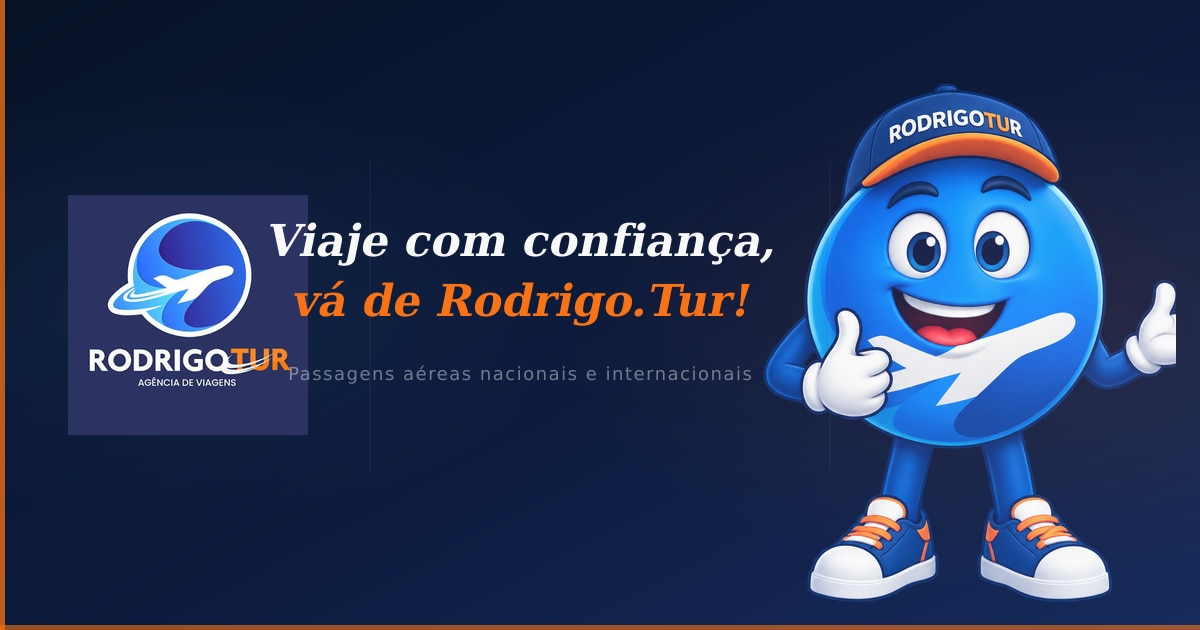
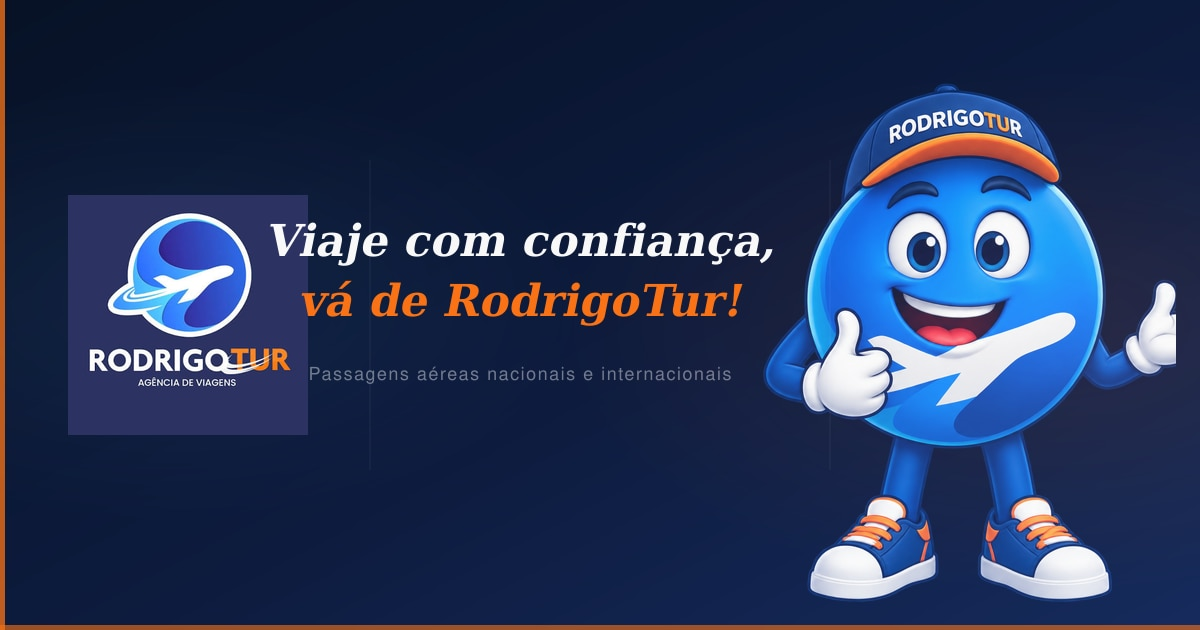
Update files from Figma Make

Changed region(s): [[0.2467, 0.4222, 0.6475, 0.5127], [0.2467, 0.573, 0.6167, 0.6032]]

diff --git a/src/App.tsx b/src/App.tsx
@@ -30,21 +30,21 @@ const WHATSAPP_NUMBER = "5583993686142";
 const whatsappLink = (message: string) =>
   `https://wa.me/${WHATSAPP_NUMBER}?text=${encodeURIComponent(message)}`;
 const WHATSAPP_LINKS = {
-  general:        whatsappLink("Olá! Gostaria de falar com a Rodrigo.Tur sobre uma viagem."),
+  general:        whatsappLink("Olá! Gostaria de falar com a RodrigoTur sobre uma viagem."),
   quote:          whatsappLink("Olá! Gostaria de iniciar uma cotação de passagem aérea. Meu destino e período são:"),
-  about:          whatsappLink("Olá! Conheci a Rodrigo.Tur pelo site e gostaria de ajuda para planejar minha viagem."),
-  story:          whatsappLink("Olá! Gostaria de planejar uma viagem com a Rodrigo.Tur. Meu destino e período são:"),
+  about:          whatsappLink("Olá! Conheci a RodrigoTur pelo site e gostaria de ajuda para planejar minha viagem."),
+  story:          whatsappLink("Olá! Gostaria de planejar uma viagem com a RodrigoTur. Meu destino e período são:"),
   process:        whatsappLink("Olá! Gostaria de começar meu atendimento para planejar uma viagem."),
-  differentials:  whatsappLink("Olá! Gostaria de conversar com a Rodrigo.Tur sobre minha próxima viagem."),
+  differentials:  whatsappLink("Olá! Gostaria de conversar com a RodrigoTur sobre minha próxima viagem."),
   tips:           whatsappLink("Olá! Vi as dicas no site e gostaria de tirar uma dúvida sobre minha viagem."),
-  contact:        whatsappLink("Olá! Vim pelo site da Rodrigo.Tur e gostaria de atendimento para planejar uma viagem."),
+  contact:        whatsappLink("Olá! Vim pelo site da RodrigoTur e gostaria de atendimento para planejar uma viagem."),
   national:       whatsappLink("Olá! Gostaria de consultar voos nacionais. Meu destino e período são:"),
   international:  whatsappLink("Olá! Gostaria de consultar voos internacionais. Meu destino e período são:"),
   personalized:   whatsappLink("Olá! Gostaria de um atendimento personalizado para encontrar uma passagem. Meu destino e período são:"),
 };
 
 const CONTENT = {
-  tagline:   "Viaje com confiança, vá de Rodrigo.Tur!",
+  tagline:   "Viaje com confiança, vá de RodrigoTur!",
   subtitulo: "Passagens aéreas nacionais e internacionais com atendimento humano, personalizado e suporte em cada etapa da sua viagem.",
   slogan:    "Eu te ajudo a viajar mais pagando menos.",
 
@@ -84,7 +84,7 @@ const CONTENT = {
   atendimentoOnline:     "Todos os dias",
   atendimentoPresencial: "Sábados — Queimadas/PB",
 
-  sobreTexto: "A Rodrigo.Tur nasceu para tornar a experiência de viajar mais simples, segura e acessível. Mais do que emitir passagens, acompanhamos cada cliente com atendimento humano e personalizado, ajudando desde a escolha do voo até os detalhes da viagem. Nosso compromisso é fazer com que você viaje com confiança.",
+  sobreTexto: "A RodrigoTur nasceu para tornar a experiência de viajar mais simples, segura e acessível. Mais do que emitir passagens, acompanhamos cada cliente com atendimento humano e personalizado, ajudando desde a escolha do voo até os detalhes da viagem. Nosso compromisso é fazer com que você viaje com confiança.",
   missao:  "Tornar as viagens mais simples, seguras e acessíveis com atendimento humano e personalizado.",
   visao:   "Ser a agência de referência em Queimadas/PB, reconhecida pela confiança e qualidade.",
   valores: "Cuidado, transparência, agilidade e compromisso com cada viagem.",
@@ -92,16 +92,16 @@ const CONTENT = {
   historiaSubtitulo: "De um sonho a uma agência de confiança",
   historiaTexto: "O que começou como uma vontade de ajudar pessoas a encontrar melhores caminhos para viajar tornou-se uma agência especializada em passagens aéreas, com suporte completo antes, durante e depois da viagem.",
   historiaTimeline: [
-    { ano: "Início",       titulo: "A ideia nasce",           desc: "O desejo de ajudar pessoas a viajar melhor deu origem à Rodrigo.Tur." },
+    { ano: "Início",       titulo: "A ideia nasce",           desc: "O desejo de ajudar pessoas a viajar melhor deu origem à RodrigoTur." },
     { ano: "Crescimento",  titulo: "Primeiros clientes",      desc: "Atendimento personalizado e indicações construíram a base da agência." },
     { ano: "Consolidação", titulo: "Especialização",          desc: "Foco em passagens aéreas e suporte completo em cada etapa." },
     { ano: "Hoje",         titulo: "Novos horizontes",        desc: "Conectando pessoas a novos destinos com confiança e cuidado." },
   ],
 
-  diferenciaisQuote: "Você não precisa planejar tudo sozinho. A Rodrigo.Tur acompanha cada etapa para que sua viagem seja mais tranquila.",
+  diferenciaisQuote: "Você não precisa planejar tudo sozinho. A RodrigoTur acompanha cada etapa para que sua viagem seja mais tranquila.",
 
-  copyright:   `© ${new Date().getFullYear()} Rodrigo.Tur — Agência de Viagens. Todos os direitos reservados.`,
-  avisoEdicao: "Informações comerciais podem ser atualizadas pela equipe da Rodrigo.Tur",
+  copyright:   `© ${new Date().getFullYear()} RodrigoTur — Agência de Viagens. Todos os direitos reservados.`,
+  avisoEdicao: "Informações comerciais podem ser atualizadas pela equipe da RodrigoTur",
 };
 
 /* ─── Nav ────────────────────────────────────────────────── */
@@ -122,7 +122,7 @@ function Mascot({ size = 64, flip, lazy }: { size?: number; flip?: boolean; lazy
   return (
     <img
       src={size > 100 ? mascotLgImg : mascotSmImg}
-      alt="Mascote Rodrigo.Tur"
+      alt="Mascote RodrigoTur"
       loading={lazy ? "lazy" : undefined}
       className="float-anim"
       style={{ width: size, height: size * 1.1, objectFit: "contain", flexShrink: 0, transform: flip ? "scaleX(-1)" : undefined }}
@@ -605,7 +605,7 @@ function Hero() {
 
             <h1 style={{ fontFamily: "Fraunces, Georgia, serif", color: "white", fontSize: "clamp(1.65rem, 7vw, 2.4rem)", lineHeight: 1.18, fontWeight: 600, marginBottom: 14 }}>
               Viaje com confiança,{" "}
-              <em style={{ color: ORANGE, fontStyle: "italic" }}>vá de Rodrigo.Tur!</em>
+              <em style={{ color: ORANGE, fontStyle: "italic" }}>vá de RodrigoTur!</em>
             </h1>
 
             <p style={{ color: "rgba(255,255,255,0.65)", fontSize: "0.92rem", lineHeight: 1.7, marginBottom: 24 }}>
@@ -651,7 +651,7 @@ function Hero() {
 
               <h1 style={{ fontFamily: "Fraunces, Georgia, serif", color: "white", fontSize: "clamp(2.2rem, 4.5vw, 3.6rem)", lineHeight: 1.12, fontWeight: 600, marginBottom: 20 }}>
                 Viaje com confiança,{" "}
-                <em style={{ color: ORANGE, fontStyle: "italic" }}>vá de Rodrigo.Tur!</em>
+                <em style={{ color: ORANGE, fontStyle: "italic" }}>vá de RodrigoTur!</em>
               </h1>
 
               <p style={{ color: "rgba(255,255,255,0.68)", fontSize: "1.08rem", lineHeight: 1.75, marginBottom: 36, maxWidth: 520 }}>
@@ -701,7 +701,7 @@ function About() {
             <div style={{ borderRadius: 20, overflow: "hidden", background: NAVY, aspectRatio: "1/1" }}>
               <img
                 src={aboutImg}
-                alt="Rodrigo, proprietário da Rodrigo.Tur, ao lado da identidade visual da agência"
+                alt="Rodrigo, proprietário da RodrigoTur, ao lado da identidade visual da agência"
                 loading="lazy"
                 style={{ width: "100%", height: "100%", objectFit: "cover", objectPosition: "center top" }}
               />
@@ -714,7 +714,7 @@ function About() {
 
           {/* Text */}
           <div>
-            <SectionLabel>Sobre a Rodrigo.Tur</SectionLabel>
+            <SectionLabel>Sobre a RodrigoTur</SectionLabel>
             <SectionHeading>
               Sua viagem começa{" "}
               <em style={{ color: ORANGE, fontStyle: "italic" }}>com tranquilidade</em>
@@ -732,7 +732,7 @@ function About() {
               ))}
             </ul>
 
-            <Btn href={CONTENT.whatsapp.links.about} variant="primary" small><WhatsAppIcon />Fale com a Rodrigo.Tur</Btn>
+            <Btn href={CONTENT.whatsapp.links.about} variant="primary" small><WhatsAppIcon />Fale com a RodrigoTur</Btn>
           </div>
         </Reveal>
 
@@ -955,7 +955,7 @@ function TravelOptions() {
 function HowItWorks() {
   const isMobile = useIsMobile();
   const steps = [
-    { Icon: WhatsAppIcon, title: "Fale com a Rodrigo.Tur",      desc: "WhatsApp, Instagram, site ou presencial." },
+    { Icon: WhatsAppIcon, title: "Fale com a RodrigoTur",      desc: "WhatsApp, Instagram, site ou presencial." },
     { Icon: PhoneIcon,    title: "Conte o que você precisa",     desc: "Destino, período e preferências." },
     { Icon: HeadsetIcon,  title: "Receba orientação",            desc: "Ajudamos a encontrar as melhores opções." },
     { Icon: LuggageIcon,  title: "Organize os detalhes",         desc: "Bagagem, assento, check-in e alterações." },

diff --git a/index.html b/index.html
@@ -4,21 +4,21 @@
     <!-- figma:head-start -->
     <meta charset="UTF-8" />
     <meta name="viewport" content="width=device-width, initial-scale=1.0" />
-    <title>Catálogo Rodrigo.Tur | Agência de Viagens</title>
+    <title>Catálogo RodrigoTur | Agência de Viagens</title>
 
     <!-- Open Graph — campos que o plugin site.json NÃO injeta automaticamente -->
     <meta property="og:type"      content="website" />
-    <meta property="og:site_name" content="Rodrigo.Tur" />
+    <meta property="og:site_name" content="RodrigoTur" />
     <meta property="og:url"       content="https://catalogo-rodrigotur.catalogos-paulo.workers.dev" />
     <meta property="og:locale"    content="pt_BR" />
     <meta property="og:image"     content="https://catalogo-rodrigotur.catalogos-paulo.workers.dev/og-rodrigotur.jpg" />
     <meta property="og:image:width"  content="1200" />
     <meta property="og:image:height" content="630" />
-    <meta property="og:image:alt"    content="Rodrigo.Tur — Agência de Viagens. Passagens aéreas nacionais e internacionais." />
+    <meta property="og:image:alt"    content="RodrigoTur — Agência de Viagens. Passagens aéreas nacionais e internacionais." />
 
     <!-- Twitter / X — title e description também declarados aqui para completude -->
     <meta name="twitter:card"        content="summary_large_image" />
-    <meta name="twitter:title"       content="Catálogo Rodrigo.Tur | Agência de Viagens" />
+    <meta name="twitter:title"       content="Catálogo RodrigoTur | Agência de Viagens" />
     <meta name="twitter:description" content="Passagens aéreas nacionais e internacionais, atendimento humano e suporte completo para sua viagem." />
     <meta name="twitter:image"       content="https://catalogo-rodrigotur.catalogos-paulo.workers.dev/og-rodrigotur.jpg" />
     <!-- figma:head-end -->
